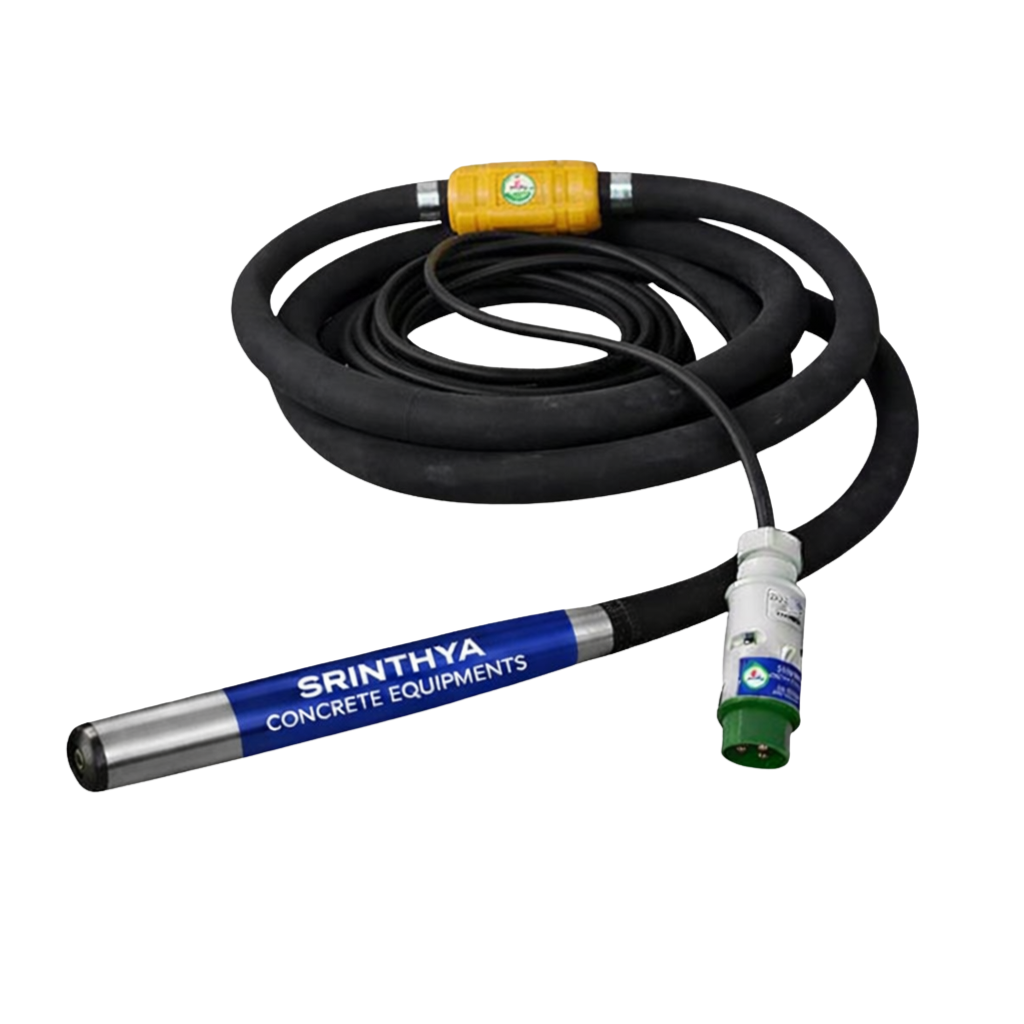
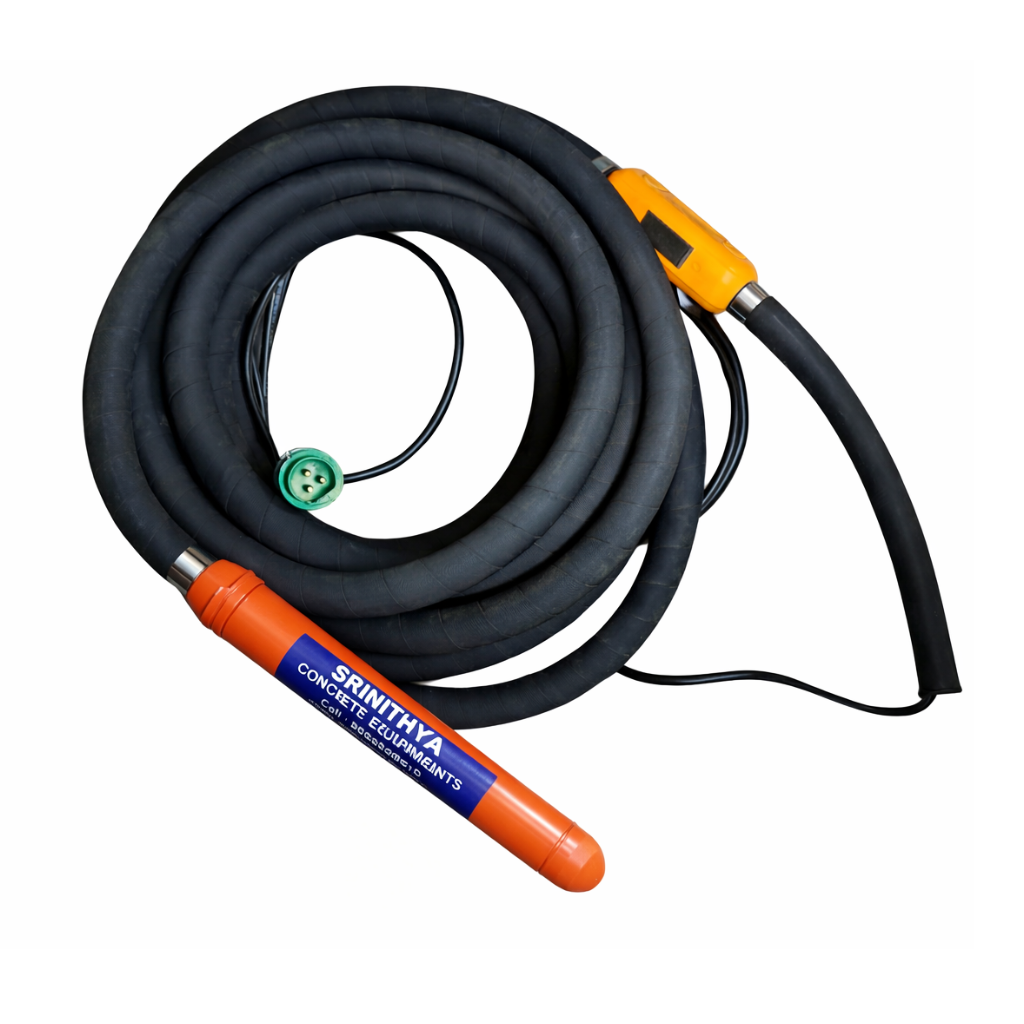
..

diff --git a/js/core/router.js b/js/core/router.js
@@ -39,6 +39,12 @@ async function loadPage(url, scroll = true) {
     const loader = document.getElementById('loader-wrapper');
     if (loader) loader.style.display = 'flex'; // Show loader briefly
 
+    // Close mobile menu if open (Fix for navigation not closing menu)
+    const mobileMenu = document.getElementById('mobile-menu');
+    if (mobileMenu && !mobileMenu.classList.contains('hidden')) {
+        mobileMenu.classList.add('hidden');
+    }
+
     try {
         let fetchUrl = url;
         let targetId = '';
@@ -54,13 +60,67 @@ async function loadPage(url, scroll = true) {
         const doc = parser.parseFromString(html, 'text/html');
 
         // 1. Swap Main Content
-        const newContent = doc.getElementById('main-content');
-        const currentContent = document.getElementById('main-content');
+        // Helper to normalize DOM structure (ensure a content wrapper exists)
+        const normalizeStructure = (d) => {
+            // 1. Check for existing standard containers
+            let container = d.getElementById('main-content') || d.querySelector('main');
+            if (container) return container;
+
+            // 2. Fallback: Create a wrapper for "unoptimized" pages
+            const wrapper = d.createElement('main');
+            wrapper.id = 'dynamic-main-content';
+            
+            // Identify content nodes (everything between header and footer)
+            const children = Array.from(d.body.children);
+            const contentNodes = children.filter(el => {
+                const id = el.id || '';
+                const tag = el.tagName.toLowerCase();
+                // Exclude Navbar, Footer, Scripts, and Overlays
+                return tag !== 'nav' && id !== 'navbar' && tag !== 'footer' && 
+                       !id.includes('modal') && !id.includes('overlay') &&
+                       id !== 'loader-wrapper' && id !== 'scroll-progress' && id !== 'back-to-top-container' &&
+                       !el.classList.contains('fixed'); 
+            });
+
+            // Move nodes into wrapper and insert into DOM
+            contentNodes.forEach(node => wrapper.appendChild(node));
+            const footer = d.querySelector('footer');
+            (footer && footer.parentNode === d.body) ? d.body.insertBefore(wrapper, footer) : d.body.appendChild(wrapper);
+            return wrapper;
+        };
+
+        const newContent = normalizeStructure(doc);
+        const currentContent = normalizeStructure(document);
 
         if (newContent && currentContent) {
             currentContent.innerHTML = newContent.innerHTML;
             // Update classes to match (e.g., padding differences)
             currentContent.className = newContent.className;
+
+            // Fix for layout overlap: Ensure container has padding for fixed navbar and footer
+            const classes = currentContent.className;
+            
+            // Check inner first child for padding too (common in unoptimized pages wrapped by router)
+            let innerClasses = '';
+            if (currentContent.firstElementChild) {
+                innerClasses = currentContent.firstElementChild.className || '';
+            }
+
+            const checkPadding = (cls) => {
+                if (!cls) return false;
+                return cls.includes('pt-20') || cls.includes('pt-24') || cls.includes('pt-28') || cls.includes('pt-32') || cls.includes('pt-36') || cls.includes('pt-40') || 
+                       cls.includes('py-20') || cls.includes('py-24') || cls.includes('py-28') || cls.includes('py-32') ||
+                       cls.includes('mt-20') || cls.includes('mt-24') || cls.includes('mt-28') || cls.includes('mt-32');
+            };
+            
+            const hasLargeTopPadding = checkPadding(classes) || checkPadding(innerClasses);
+            
+            if (!hasLargeTopPadding) {
+                currentContent.classList.add('pt-20', 'md:pt-24');
+            }
+            if (!classes.includes('pb-') && !classes.includes('py-')) {
+                currentContent.classList.add('pb-12');
+            }
         } else {
             // Fallback if structure is different (shouldn't happen if all pages are updated)
             window.location.reload();
@@ -73,12 +133,43 @@ async function loadPage(url, scroll = true) {
         // 3. Re-execute Scripts
         // We need to find scripts in the new content and run them
         // Specifically looking for the inline script that calls renderProductCards
-        const scripts = doc.querySelectorAll('#main-content script');
-        scripts.forEach(oldScript => {
+        
+        // Helper: Intercept DOMContentLoaded/load events to force execution in SPA mode
+        const originalDocAddListener = document.addEventListener;
+        const originalWindowAddListener = window.addEventListener;
+        
+        const interceptListener = (type, listener, options) => {
+            if (type === 'DOMContentLoaded' || type === 'load') {
+                // Execute immediately since DOM is already ready
+                setTimeout(listener, 10);
+            } else {
+                // Pass through other events
+                if (this === document) originalDocAddListener.call(document, type, listener, options);
+                else originalWindowAddListener.call(window, type, listener, options);
+            }
+        };
+
+        document.addEventListener = interceptListener;
+        window.addEventListener = interceptListener;
+
+        // Find all scripts (both in the new body content and potentially new ones in head)
+        const bodyScripts = Array.from(newContent.querySelectorAll('script'));
+        const headScripts = Array.from(doc.head.querySelectorAll('script')).filter(s => s.src); // Only external scripts from head
+        const allScripts = [...headScripts, ...bodyScripts];
+
+        allScripts.forEach(oldScript => {
             const newScript = document.createElement('script');
             Array.from(oldScript.attributes).forEach(attr => newScript.setAttribute(attr.name, attr.value));
             newScript.textContent = oldScript.textContent;
             
+            // Prevent re-executing core infrastructure scripts that might cause issues (e.g. double listeners)
+            if (newScript.src && (
+                newScript.src.includes('router.js') || 
+                newScript.src.includes('navbar.js') || 
+                newScript.src.includes('footer.js') ||
+                newScript.src.includes('product_renderer.js')
+            )) return;
+
             // If it's an inline script with renderProductCards, we might need to delay it 
             // or ensure dependencies are ready.
             // Since product_data.js and renderer are likely in head or cached, it should be fine.
@@ -93,6 +184,12 @@ async function loadPage(url, scroll = true) {
                 newScript.addEventListener('error', () => newScript.remove());
             }
         });
+
+        // Restore original event listeners after a short delay
+        setTimeout(() => {
+            document.addEventListener = originalDocAddListener;
+            window.addEventListener = originalWindowAddListener;
+        }, 500);
 
         // The MutationObservers in product_renderer.js and product_cards.js will handle re-rendering.
         // We only need to manually re-initialize components that don't use an observer.
@@ -143,7 +240,7 @@ async function loadPage(url, scroll = true) {
                     } else {
                         window.scrollTo(0, 0);
                     }
-                }, 100);
+                }, 600);
             } else {
                 window.scrollTo(0, 0);
             }

diff --git a/js/components/navbar.js b/js/components/navbar.js
@@ -60,7 +60,7 @@ const rootPath = getRootPath(),
                     <img src="${rootPath}Assets/Others/logo.png" alt="Srinithya Engineering Logo" class="h-7 md:h-16 w-auto mr-1 relative z-20 transition-all duration-300 ease-in-out" width="64" height="64" id="nav-logo">
                     <div class="relative overflow-hidden pl-0 pr-1 py-1 flex-grow text-center transition-all duration-300 ease-in-out min-w-0" id="name-strip">
                         <!-- Updated to font-black (weight 900) for maximum thickness -->
-                        <span class="text-[clamp(8px,2.9vw,30px)] text-primary relative z-10 transition-all duration-300 ease-in-out whitespace-nowrap drop-shadow-sm block mb-0 md:mb-1 leading-none w-full pr-1" id="company-name">SRINITHYA ENGINEERING PRIVATE LIMITED</span>
+                        <span class="text-[clamp(8px,2.7vw,30px)] text-primary relative z-10 transition-all duration-300 ease-in-out whitespace-nowrap drop-shadow-sm block mb-0 md:mb-1 leading-none w-full pr-1" id="company-name">SRINITHYA ENGINEERING PRIVATE LIMITED</span>
                         
                         <!-- Construction Animations Layer -->
                         <div class="hidden md:block absolute inset-0 pointer-events-none z-0 overflow-hidden transition-opacity duration-300 ease-in-out" id="animation-layer">
@@ -642,7 +642,7 @@ function initNavbar() {
             l.classList.add("ml-2", "text-left");
             c.classList.add("opacity-0");
             d.classList.remove("text-[clamp(8px,2.7vw,30px)]", "md:mb-2", "leading-none");
-            d.classList.add("text-[clamp(8px,2.9vw,24px)]", "leading-tight");
+            d.classList.add("text-[clamp(8px,1.5vw,20px)]", "leading-none");
             m.classList.remove("w-full", "border-t", "justify-center", "py-2", "lg:gap-8");
             m.classList.add("py-1", "flex-shrink-0", "text-sm");
         } else {
@@ -658,7 +658,7 @@ function initNavbar() {
             l.classList.remove("ml-2", "text-left");
             c.classList.remove("opacity-0");
             d.classList.add("text-[clamp(8px,2.7vw,30px)]", "md:mb-2", "leading-none");
-            d.classList.remove("text-[clamp(8px,2.9vw,24px)]", "leading-tight");
+            d.classList.remove("text-[clamp(8px,1.5vw,20px)]", "leading-none");
             m.classList.add("w-full", "border-t", "justify-center", "py-2", "lg:gap-8");
             m.classList.remove("py-1", "flex-shrink-0", "text-sm");
         }

diff --git a/js/data/product_data.js b/js/data/product_data.js
@@ -256,7 +256,7 @@ window.productData = {
             {
                 model: "40IV Poker",
                 name: "40IV High Frequency Poker",
-                image: "./Assets/electrical_vibrator.png",
+                image: "./Assets/Product Images/shiv40.png",
                 description: "Standalone poker with inbuilt frequency converter.",
                 specs: [
                     { icon: "fa-solid fa-ruler-horizontal", text: "Diameter: 40mm" },
@@ -269,7 +269,7 @@ window.productData = {
             {
                 model: "60IV Poker",
                 name: "60IV High Frequency Poker",
-                image: "./Assets/electrical_vibrator.png",
+                image: "./Assets/Product Images/shiv60.png",
                 description: "High performance 60mm poker with inbuilt converter.",
                 specs: [
                     { icon: "fa-solid fa-ruler-horizontal", text: "Diameter: 60mm" },
@@ -284,7 +284,7 @@ window.productData = {
             {
                 model: "SHFN 60 (5Mtr)",
                 name: "SHFN 60 - 5Mtr Hose",
-                image: "./Assets/electrical_vibrator.png",
+                image: "./Assets/Product Images/shfn60_5m.png",
                 description: "",
                 specs: [
                     { icon: "fa-solid fa-ruler-horizontal", text: "Diameter: 58mm" },
@@ -324,7 +324,7 @@ window.productData = {
             {
                 model: "40MM Needle 5Mtr",
                 name: "40MM Needle - 5Mtr Hose",
-                image: "./Assets/electrical_vibrator.png",
+                image: "./Assets/Product Images/shfn40_5m.png",
                 description: "",
                 specs: [
                     { icon: "fa-solid fa-ruler-horizontal", text: "Diameter: 40mm" },
@@ -1023,7 +1023,7 @@ window.productData = {
         {
             name: "Emergency Support",
             icon: "fa-solid fa-screwdriver-wrench",
-            description: "24/7 breakdown support to minimize project downtime.",
+            description: "Breakdown support to minimize project downtime.",
             actions: [{ type: 'enquire', name: 'Emergency Support' }]
         }
     ],

diff --git a/js/components/product_renderer.js b/js/components/product_renderer.js
@@ -46,6 +46,11 @@ window.createProductCard = function(product) {
             const safeName = productName.replace(/'/g, "\\'");
             return `<button onclick="initiateSingleProductEnquiry('${safeName}')" class="w-full bg-primary text-white font-bold py-1.5 md:py-2 rounded hover:bg-blue-800 text-xs md:text-sm transition" aria-label="Rent ${productName}">Rent Now</button>`;
         }
+        if (action.type === 'repair') {
+            const productName = product.name || 'Service';
+            const safeName = productName.replace(/'/g, "\\'");
+            return `<button onclick="initiateSingleProductEnquiry('${safeName}')" class="w-full bg-primary text-white font-bold py-1.5 md:py-2 rounded hover:bg-blue-800 text-xs md:text-sm transition" aria-label="Book ${productName}">Book Service</button>`;
+        }
         if (action.type === 'enquire-link') {
             return `<a href="${rootPath}${action.href}" class="w-full bg-secondary text-white py-1.5 md:py-2 rounded font-bold hover:bg-yellow-600 transition mt-auto text-xs md:text-sm" aria-label="Enquire now about ${product.name}"><i class="fa-solid fa-headset" aria-hidden="true"></i> Enquire</a>`;
         }

diff --git a/js/components/product_cards.js b/js/components/product_cards.js
@@ -128,8 +128,8 @@ const lightEquipment = [
         },
         {
             title: "High Frequency Pokers",
-            image: ["./Assets/Product Images/shfn60_12m.png", "./Assets/Product Images/shfn40_12m.png"],
-            imageWebp: ["./Assets/Product Images/60hf.webp", "./Assets/Product Images/40hf.webp"],
+            image: ["./Assets/Product Images/shfn60_12m.png", "./Assets/Product Images/shfn40_12m.png", "./Assets/Product Images/shfn60_5m.png", "./Assets/Product Images/shfn40_5m.png","./Assets/Product Images/shiv40.png", "./Assets/Product Images/shiv60.png"],
+            imageWebp: ["./Assets/Product Images/60hf.webp", "./Assets/Product Images/40hf.webp", "./Assets/Product Images/shfn60_5m.webp", "./Assets/Product Images/shfn40_5m.webp", "./Assets/Product Images/shiv40.webp", "./Assets/Product Images/shiv60.webp"],
             description: "Internal concrete vibration needles for superior consolidation.",
             features: ["40mm & 60mm Diameters", "Hose lengths up to 12 meters", "Multiple Power Options"],
             link: "Product_details/high_frequency_poker_models.html"
